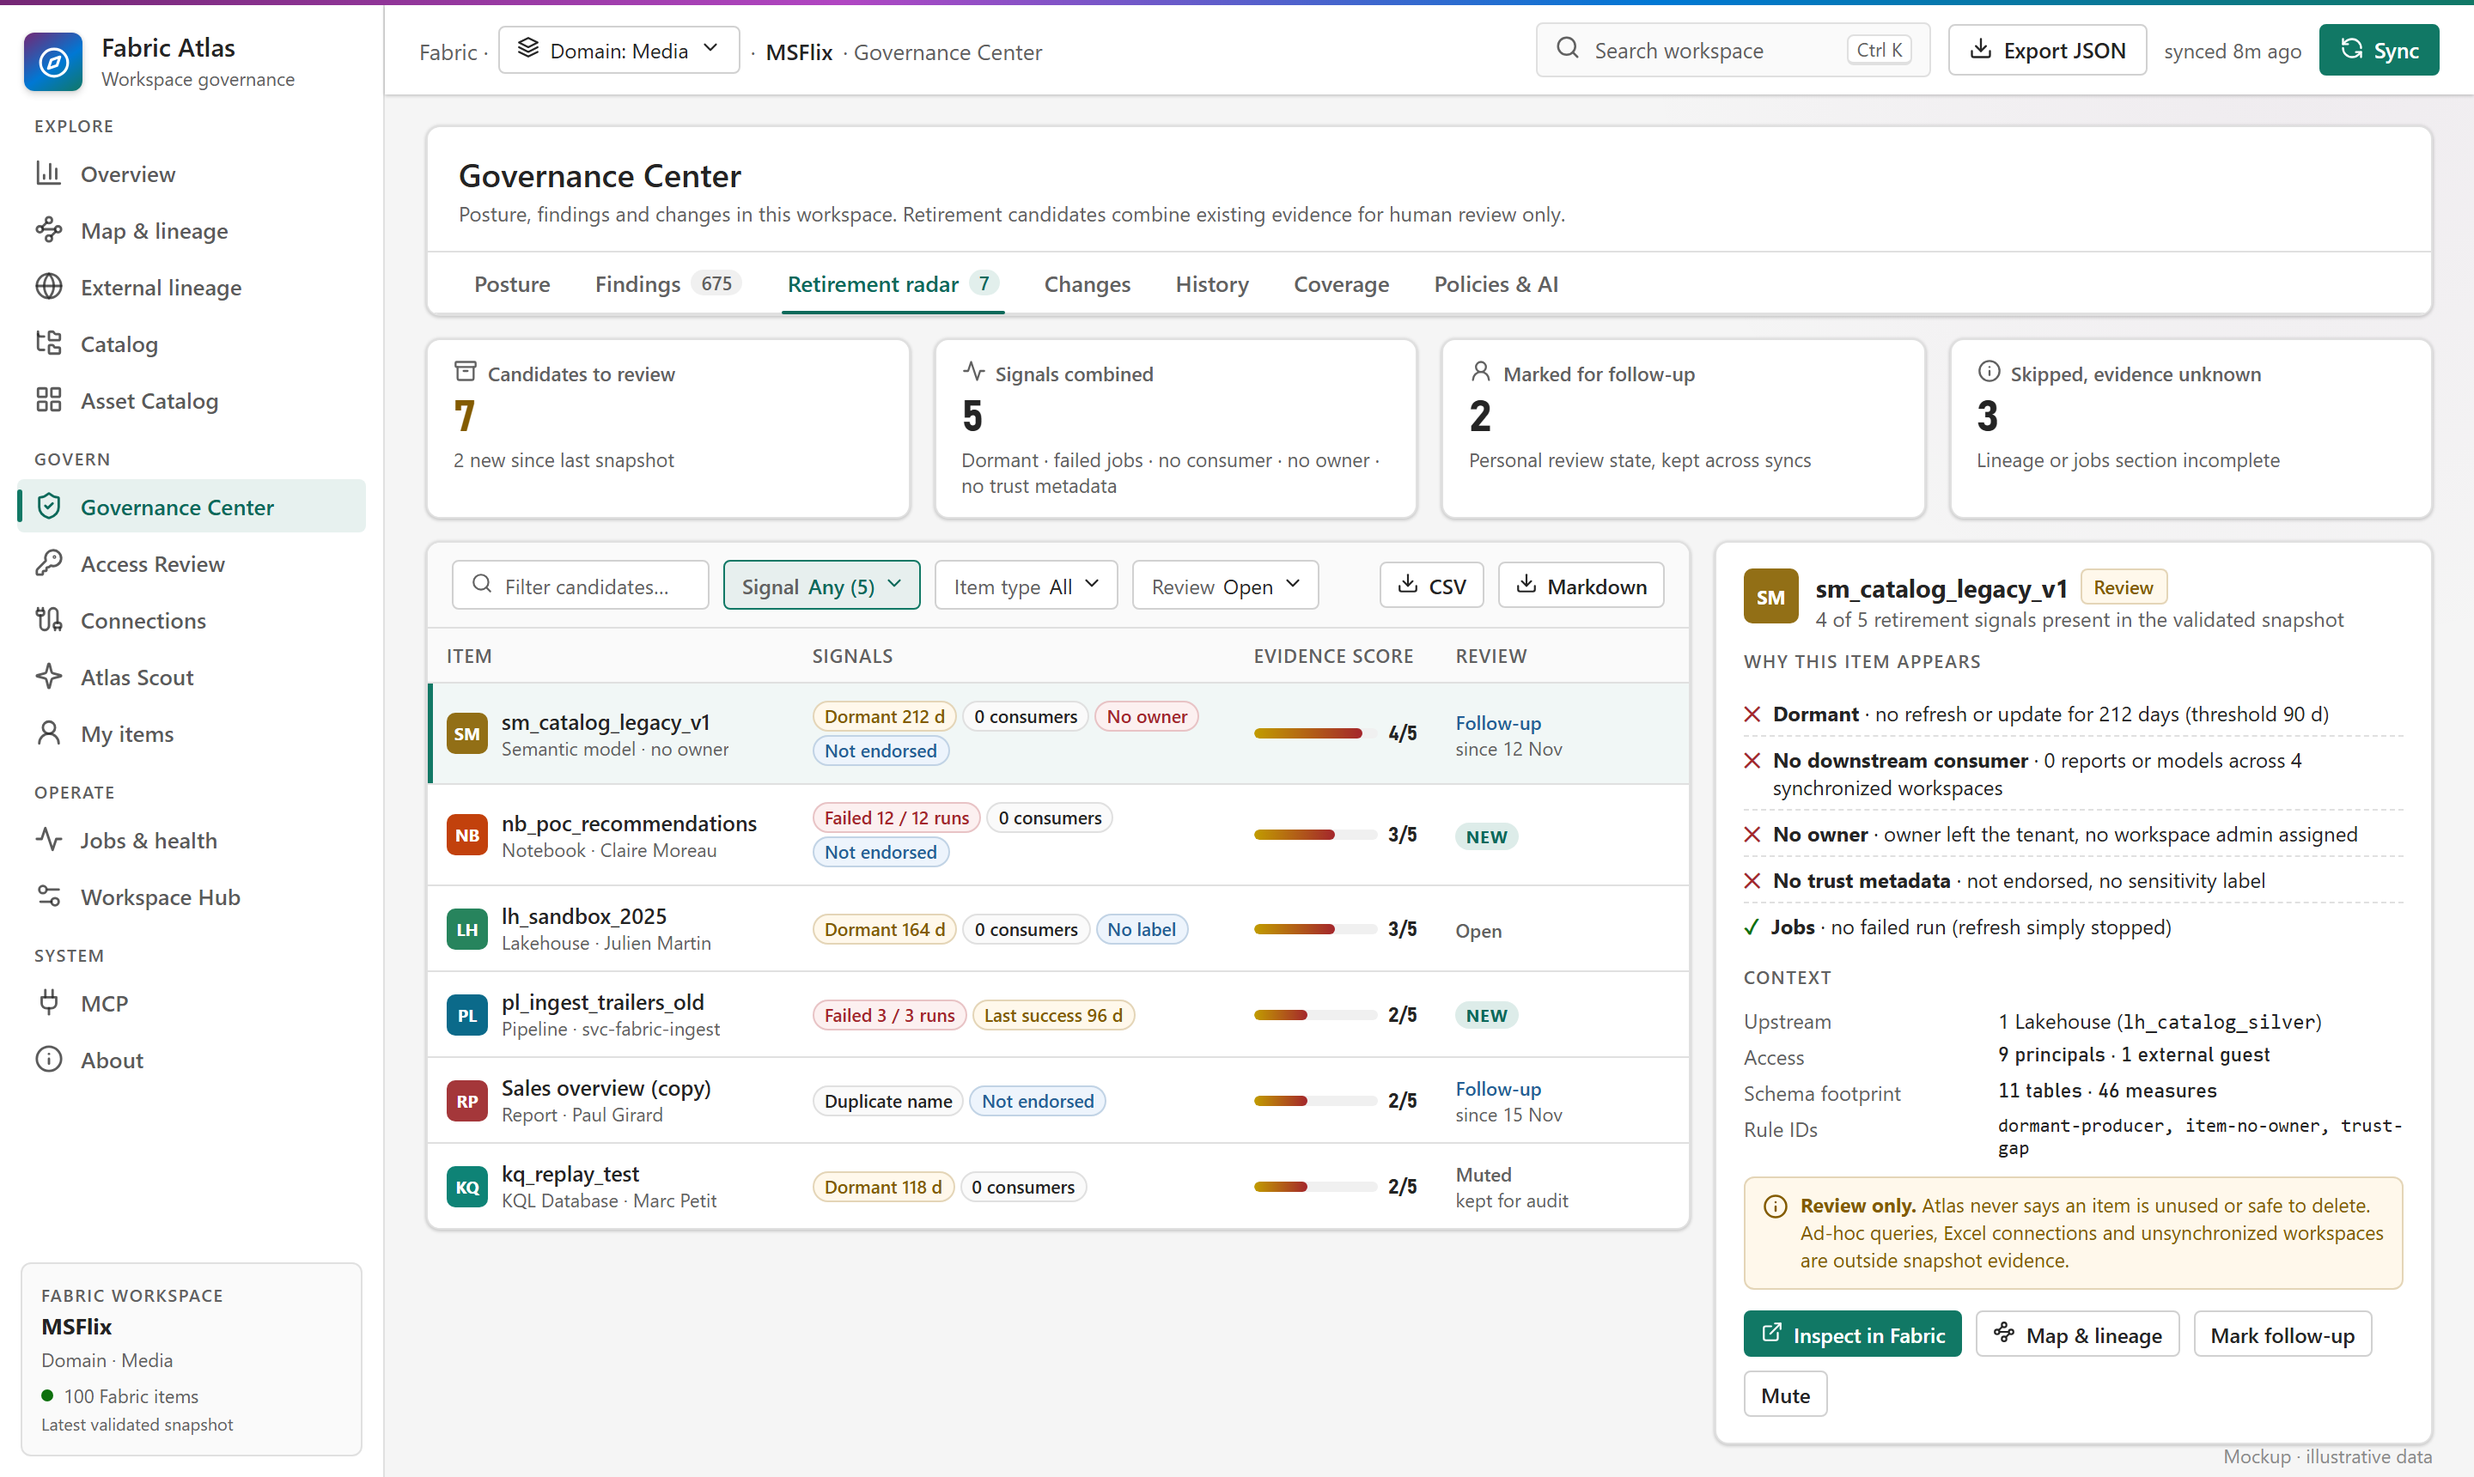
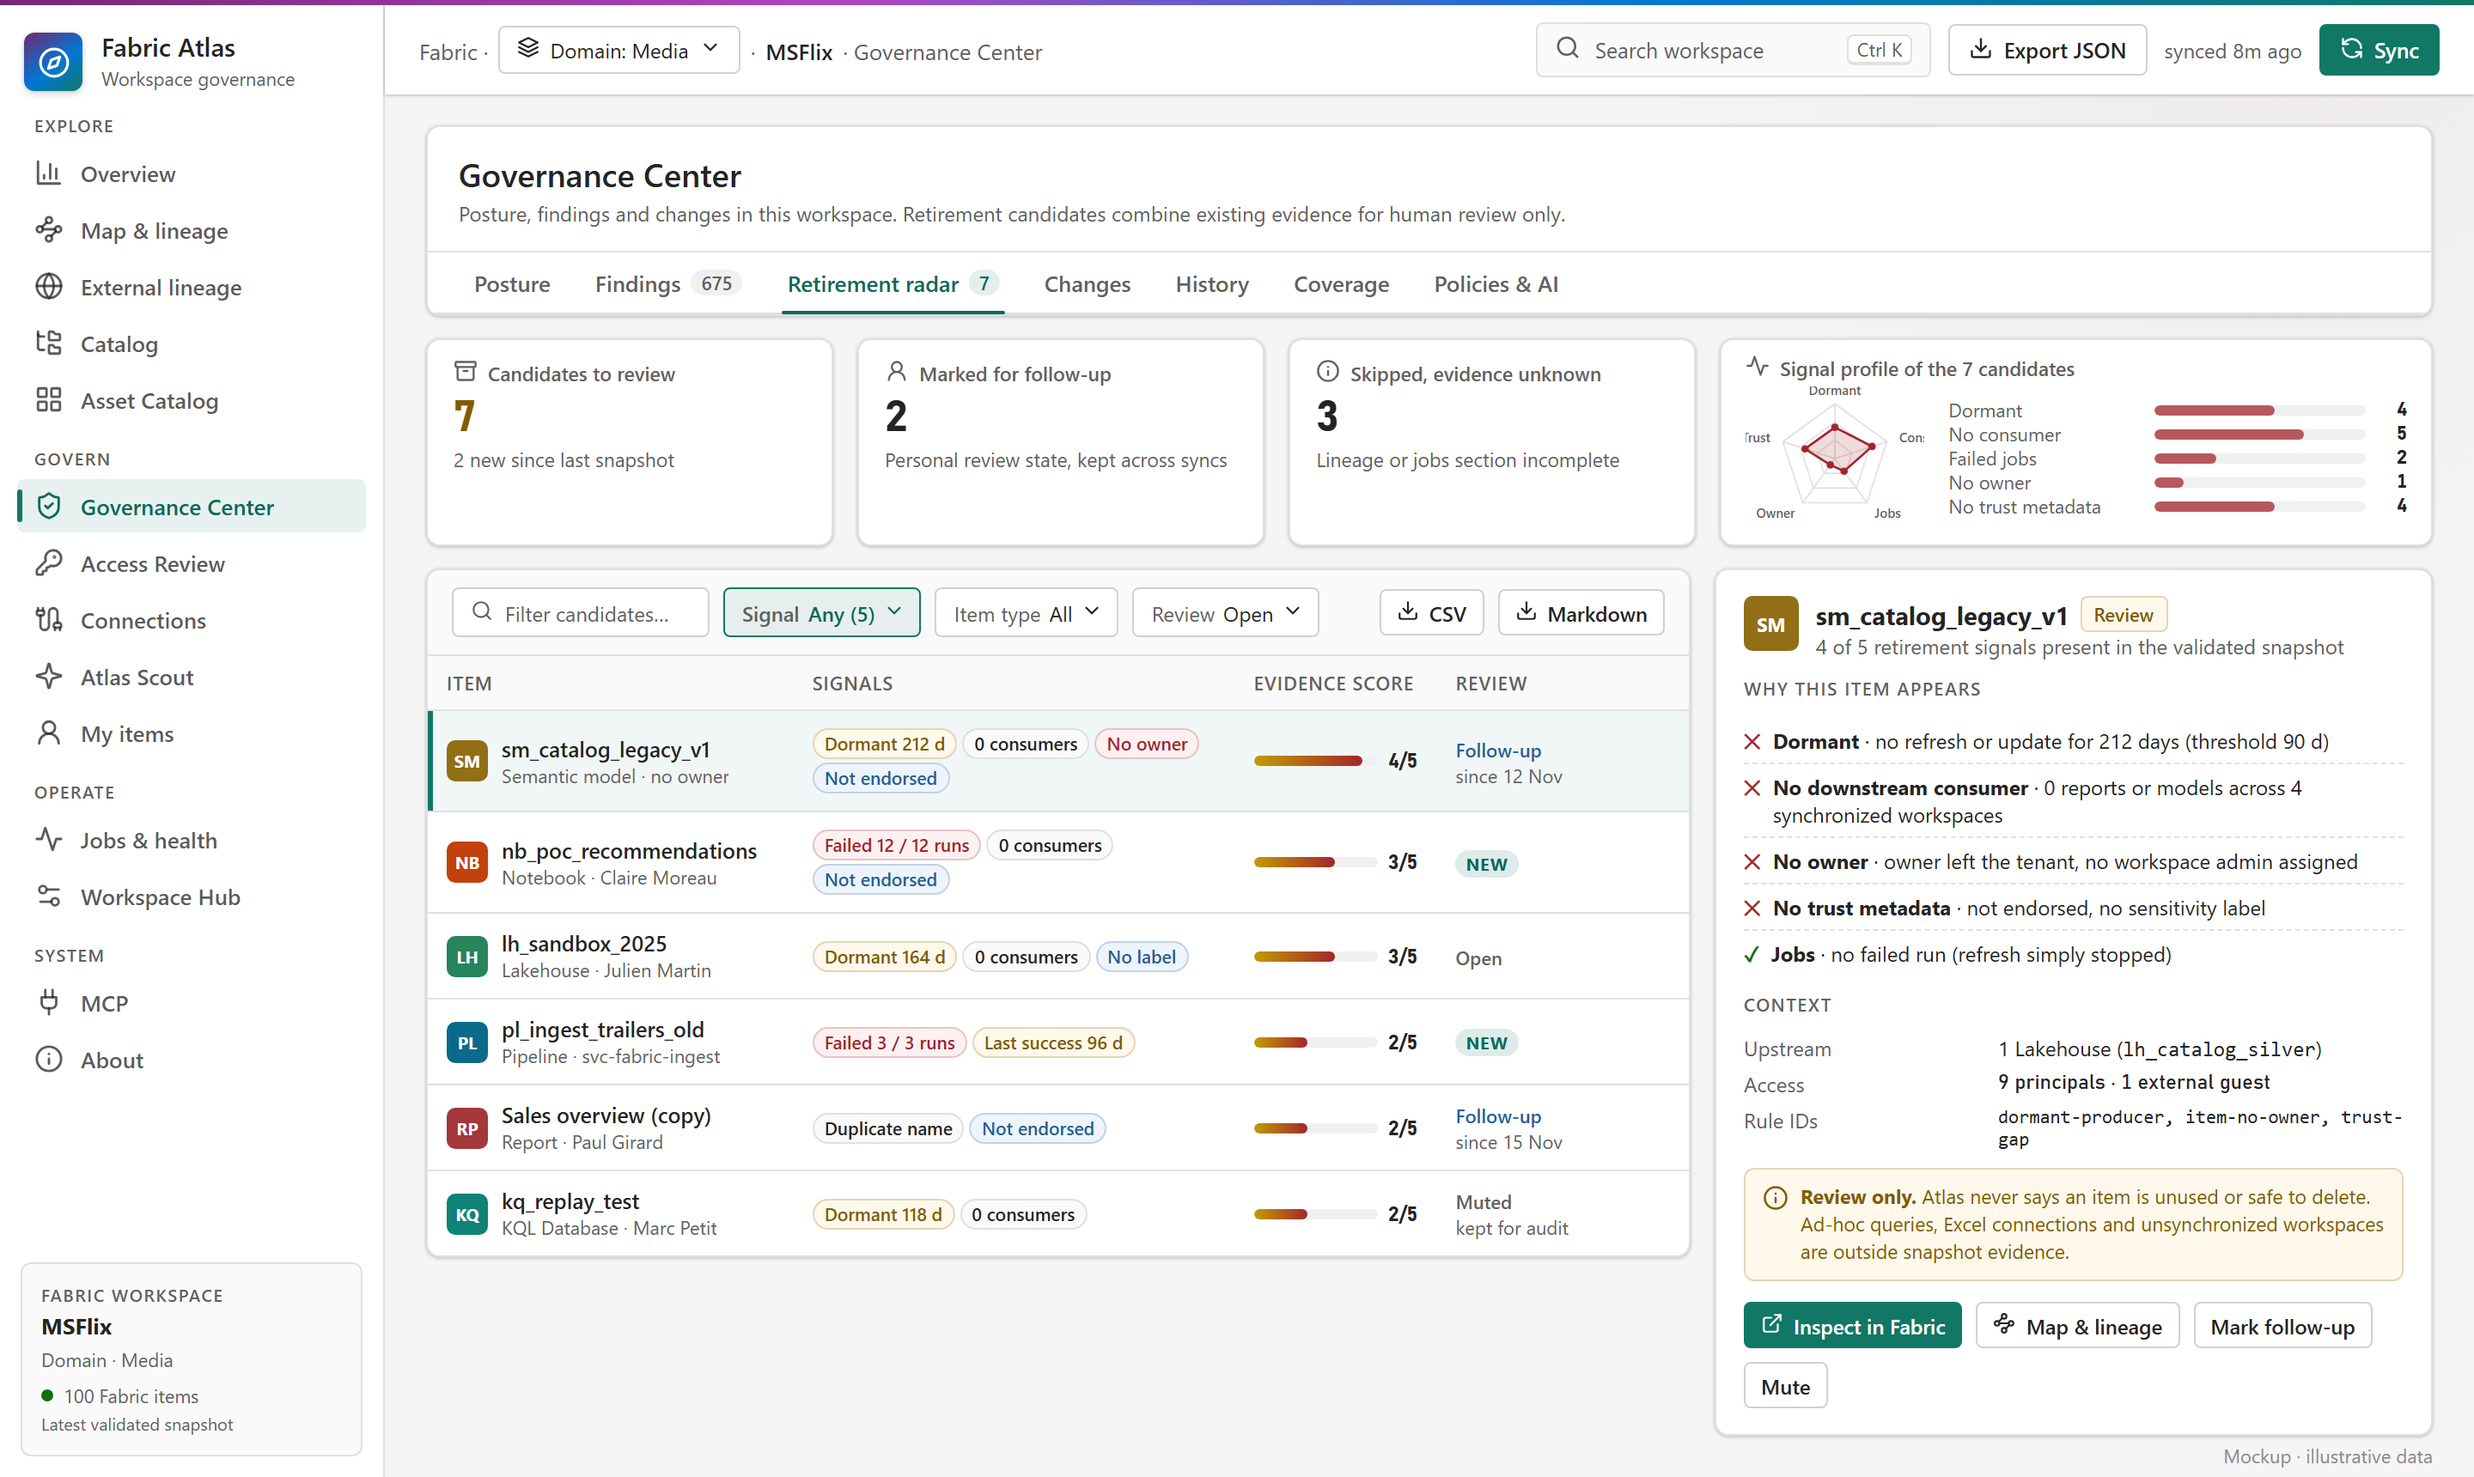
mockup: retirement radar signal profile chart (#35)
Copilot-Session: 7a80cb7c-91da-4470-8075-7adab29b8ccf

diff --git a/v3.1/retirement-radar/mock.html b/v3.1/retirement-radar/mock.html
@@ -123,6 +123,12 @@ tr.on td:first-child{box-shadow:inset 3px 0 0 var(--primary)}
 .chk{display:flex;align-items:flex-start;gap:7px;font-size:12px;padding:5px 0;border-bottom:1px dashed var(--border)}
 .chk:last-child{border-bottom:0}
 .chk .ok{color:var(--healthy);font-weight:700}.chk .ko{color:var(--d-fg);font-weight:700}.chk .un{color:var(--muted-fg);font-weight:700}
+.chartcard{padding:8px 14px}
+.lg{display:grid;grid-template-columns:112px 1fr 16px;align-items:center;gap:8px;font-size:11px;line-height:14px}
+.lgl{color:var(--muted-fg);white-space:nowrap}
+.lgb{height:6px;border-radius:9px;background:var(--muted);overflow:hidden}
+.lgb>i{display:block;height:100%;border-radius:9px;background:#a4262c;opacity:.75}
+.lg b{text-align:right;font-size:11.5px}
 </style></head>
 <body>
 <div class="spectrum"></div>
@@ -165,11 +171,12 @@ tr.on td:first-child{box-shadow:inset 3px 0 0 var(--primary)}
       </div>
     </div>
 
-    <div class="grid" style="grid-template-columns:repeat(4,1fr);margin-bottom:13px">
+    <div class="grid" style="grid-template-columns:repeat(3,1fr) 1.75fr;margin-bottom:13px">
       <div class="card kpi warn"><div class="l"><span data-i="archive" data-s="14"></span>Candidates to review</div><div class="v num">7</div><div class="d">2 new since last snapshot</div></div>
-      <div class="card kpi"><div class="l"><span data-i="activity" data-s="14"></span>Signals combined</div><div class="v num">5</div><div class="d">Dormant · failed jobs · no consumer · no owner · no trust metadata</div></div>
       <div class="card kpi"><div class="l"><span data-i="user" data-s="14"></span>Marked for follow-up</div><div class="v num">2</div><div class="d">Personal review state, kept across syncs</div></div>
       <div class="card kpi"><div class="l"><span data-i="info" data-s="14"></span>Skipped, evidence unknown</div><div class="v num">3</div><div class="d">Lineage or jobs section incomplete</div></div>
+      <div class="card kpi chartcard"><div class="l"><span data-i="activity" data-s="14"></span>Signal profile of the 7 candidates</div>
+        <div style="display:flex;align-items:center;gap:14px;margin-top:2px"><svg width="104" height="84" viewBox="0 0 124 100" style="flex-shrink:0"><polygon points="62.0,37.3 74.0,46.1 69.4,60.2 54.6,60.2 50.0,46.1" fill="none" stroke="#e0e0e0" stroke-width="1"/><polygon points="62.0,24.7 86.1,42.2 76.9,70.5 47.1,70.5 37.9,42.2" fill="none" stroke="#e0e0e0" stroke-width="1"/><polygon points="62.0,12.0 98.1,38.3 84.3,80.7 39.7,80.7 25.9,38.3" fill="none" stroke="#e0e0e0" stroke-width="1"/><line x1="62" y1="50" x2="62.0" y2="12.0" stroke="#e0e0e0" stroke-width="1"/><line x1="62" y1="50" x2="98.1" y2="38.3" stroke="#e0e0e0" stroke-width="1"/><line x1="62" y1="50" x2="84.3" y2="80.7" stroke="#e0e0e0" stroke-width="1"/><line x1="62" y1="50" x2="39.7" y2="80.7" stroke="#e0e0e0" stroke-width="1"/><line x1="62" y1="50" x2="25.9" y2="38.3" stroke="#e0e0e0" stroke-width="1"/><polygon points="62.0,28.3 87.8,41.6 68.4,58.8 58.8,54.4 41.3,43.3" fill="rgba(164,38,44,.16)" stroke="#a4262c" stroke-width="1.6"/><circle cx="62.0" cy="28.3" r="2.6" fill="#a4262c"/><circle cx="87.8" cy="41.6" r="2.6" fill="#a4262c"/><circle cx="68.4" cy="58.8" r="2.6" fill="#a4262c"/><circle cx="58.8" cy="54.4" r="2.6" fill="#a4262c"/><circle cx="41.3" cy="43.3" r="2.6" fill="#a4262c"/><text x="62.0" y="6.0" font-size="9" fill="#616161" text-anchor="middle" font-weight="600">Dormant</text><text x="106.7" y="38.5" font-size="9" fill="#616161" text-anchor="start" font-weight="600">Consumers</text><text x="89.6" y="91.0" font-size="9" fill="#616161" text-anchor="start" font-weight="600">Jobs</text><text x="34.4" y="91.0" font-size="9" fill="#616161" text-anchor="end" font-weight="600">Owner</text><text x="17.3" y="38.5" font-size="9" fill="#616161" text-anchor="end" font-weight="600">Trust</text></svg><div style="flex:1;min-width:0"><div class="lg"><span class="lgl">Dormant</span><span class="lgb"><i style="width:57%"></i></span><b class="num">4</b></div><div class="lg"><span class="lgl">No consumer</span><span class="lgb"><i style="width:71%"></i></span><b class="num">5</b></div><div class="lg"><span class="lgl">Failed jobs</span><span class="lgb"><i style="width:29%"></i></span><b class="num">2</b></div><div class="lg"><span class="lgl">No owner</span><span class="lgb"><i style="width:14%"></i></span><b class="num">1</b></div><div class="lg"><span class="lgl">No trust metadata</span><span class="lgb"><i style="width:57%"></i></span><b class="num">4</b></div></div></div></div>
     </div>
 
     <div class="grid" style="grid-template-columns:1fr 418px;align-items:start">
@@ -246,8 +253,7 @@ tr.on td:first-child{box-shadow:inset 3px 0 0 var(--primary)}
         <dl class="kv">
           <dt>Upstream</dt><dd>1 Lakehouse (<span class="mono">lh_catalog_silver</span>)</dd>
           <dt>Access</dt><dd class="num">9 principals · 1 external guest</dd>
-          <dt>Schema footprint</dt><dd class="num">11 tables · 46 measures</dd>
-          <dt>Rule IDs</dt><dd class="mono s11">dormant-producer, item-no-owner, trust-gap</dd>
+                    <dt>Rule IDs</dt><dd class="mono s11">dormant-producer, item-no-owner, trust-gap</dd>
         </dl>
 
         <div class="guard">
